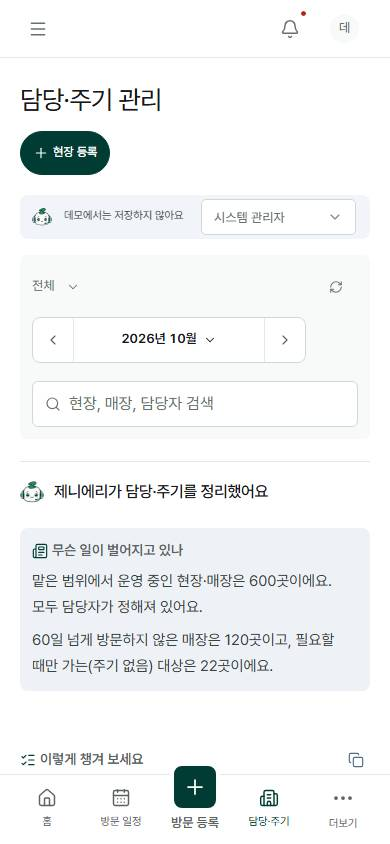
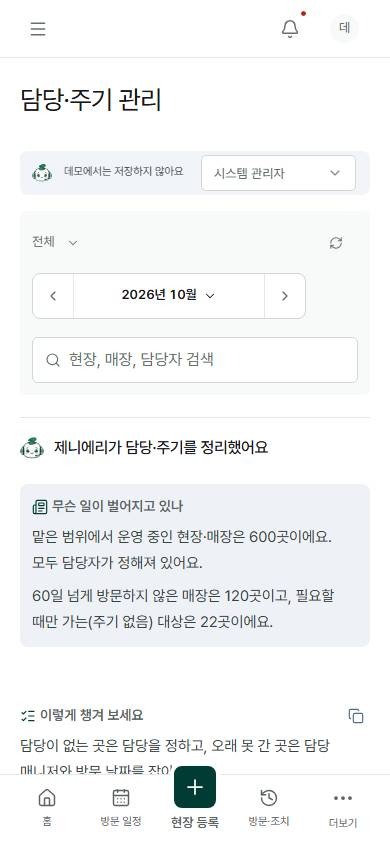
등록 버튼 PC·모바일 같은 동작(모바일 하단 + 버튼이 화면에 맞춰 일정·결과·조치 등록), 하단 메뉴 방문·조치, 매뉴얼 화면 캡처 파이프라인(npm run screenshots)·화면 다시 찍음

diff --git a/app/platform/app.tsx b/app/platform/app.tsx
@@ -137,7 +137,8 @@ export default function PlatformApp({initialData,liveMode=false,onSaveLive,onDem
  const c:Context={demo:!liveMode,saving,data,me,now,start,end,targets,scope,siteScope,storeScope,visits:scopedVisits,actions:scopedActions,metrics,allMetrics,type,page,kind,manager,siteId,storeId,team,part,editable,canMaster,go,setType:chooseType,setKind,setTeam:chooseTeam,setPart:choosePart,setManager:chooseManager,setSite:chooseSite,setStore:chooseStore,setPeriod,open,showTarget,uname,target,label,owners,exportCsv};
  const vview=view==='auto'?(me.role==='manager'?'calendar':'units'):view;const activePage=page==='requirements'?'visits':page==='actions'?'results':page;const title=page==='requirements'?'필요 방문 회차':page==='settings'?'설정':page==='actions'?'방문·조치':nav.find(n=>n[0]===page)?.[1]||'운영 현황';
  const openIssues=scopedActions.filter(a=>a.state!=='완료');const alertCount=openIssues.filter(a=>a.dueDate<now).length+allMetrics.delayed+allMetrics.slots.filter(s=>s.state==='unplanned'&&s.overdue).length;
- const primary=page==='sites'?{entity:'site',label:'현장 등록'}:page==='actions'?{entity:'action',label:'후속 조치 등록'}:{entity:'visit',label:page==='results'?'방문 결과 등록':'방문 일정 등록'};
+ // 화면마다 등록 하나: PC는 머리 버튼, 모바일은 하단 가운데 + 버튼(같은 동작, 짧은 이름)
+ const primary=page==='sites'?{entity:'site',label:'현장 등록',short:'현장 등록'}:page==='actions'?{entity:'action',label:'후속 조치 등록',short:'조치 등록'}:page==='results'?{entity:'visit',label:'방문 결과 등록',short:'결과 등록'}:{entity:'visit',label:'방문 일정 등록',short:'일정 등록'};
  const canNarrow=showLevel('division',divisionOptions)||showLevel('team',teamOptions)||showLevel('part',partOptions)||showLevel('manager',roleManagers)||filterSites.length>1||filterStores.length>1||page==='sites';
  const filterCount=[division,team,part,manager,siteId,storeId,region,status,search].filter(Boolean).length;
  return <div className={'app-shell platform-app '+(collapsed?'sidebar-collapsed':'')}>
@@ -160,7 +161,7 @@ export default function PlatformApp({initialData,liveMode=false,onSaveLive,onDem
  {page==='settings'&&<><AiBriefSettings c={c}/><PlatformDomains c={c} onSave={save}/><PlatformUsers c={c}/></>}
  <UpdateNotice/><footer className="workspace-footer"><span><b>ZeniField</b>현장·매장 통합 운영관리</span><span>현장·매장 실적 분리<i/>한국 표준시 기준<i/>{`v${__ZF_BUILD__.version}${__ZF_BUILD__.commit?" · "+__ZF_BUILD__.commit:""} · ${__ZF_BUILD__.dev?"개발 서버 시작":"빌드"} ${__ZF_BUILD__.at}`}</span></footer>
  </main></div>
- <nav className="mobile-bottom-nav" inert={mobile} aria-label="모바일 메뉴"><button className={page==='dashboard'?'active':''} onClick={()=>go('dashboard')}><Home size={20}/><span>홈</span></button><button className={activePage==='visits'?'active':''} onClick={()=>go('visits')}><CalendarDays size={20}/><span>방문 일정</span></button><button className="mobile-register" onClick={()=>editable?open('visit',undefined,{result:true,targetType:type}):setToast('조회 전용입니다. 역할별 화면에서 잡매니저를 선택해 시연하세요.')}><span><Plus size={24}/></span><b>방문 등록</b></button><button className={page==='sites'?'active':''} onClick={()=>go('sites')}><Building2 size={20}/><span>담당·주기</span></button><button aria-expanded={mobile} aria-controls="workspace-sidebar" onClick={()=>setMobile(true)}><MoreHorizontal size={24}/><span>더보기</span></button></nav>
+ <nav className="mobile-bottom-nav" inert={mobile} aria-label="모바일 메뉴"><button className={page==='dashboard'?'active':''} onClick={()=>go('dashboard')}><Home size={20}/><span>홈</span></button><button className={activePage==='visits'?'active':''} onClick={()=>go('visits')}><CalendarDays size={20}/><span>방문 일정</span></button><button className="mobile-register" aria-label={primary.label} onClick={()=>editable?open(primary.entity,undefined,{targetType:type,result:page==='results'}):setToast('조회 전용입니다. 역할별 화면에서 잡매니저를 선택해 시연하세요.')}><span><Plus size={24}/></span><b>{primary.short}</b></button><button className={activePage==='results'?'active':''} onClick={()=>go('actions','미처리')}><History size={20}/><span>방문·조치</span></button><button aria-expanded={mobile} aria-controls="workspace-sidebar" onClick={()=>setMobile(true)}><MoreHorizontal size={24}/><span>더보기</span></button></nav>
  {modal&&<Drawer mark={modal.entity==='visit'&&isAi(modal)?<AiMark size={18}/>:undefined} title={modal.entity==='saved'?'저장 완료':modal.entity==='site'?'현장 등록·수정':modal.entity==='store'?'매장 등록·수정':modal.entity==='action'?'후속 조치 등록 / 수정':modal.entity==='user'?'사용자·조직·권한':modal.entity==='visit'&&isAi(modal)?(isPlan(modal)?'제니에리가 일정 등록을 도와 드려요':'제니에리가 결과 입력을 도와 드려요'):modal.result?'방문 결과 등록':'방문 일정 등록'} sub='' busy={saving} onClose={()=>{if(!saving)setModal(null)}}>{modal.entity==='saved'?<SavedNudge c={c} before={modal.before} onClose={()=>setModal(null)}/>:modal.entity==='user'?<UserForm record={modal.record} c={c} error={error} onSave={save} onClose={()=>setModal(null)}/>:modal.entity==='visit'&&isAi(modal)?isPlan(modal)?<AiPlanForm key={`plan:${modal.siteId||''}:${modal.storeId||''}:${modal.requirementId||''}`} c={c} modal={modal} error={error} onSave={save} onClose={()=>setModal(null)}/>:<AiVisitForm key={`ai:${modal.entity}:${modal.record?.id||'new'}:${modal.siteId||''}:${modal.storeId||''}:${modal.result||false}`} c={c} modal={modal} error={error} onSave={save} onClose={()=>setModal(null)}/>:<PlatformForm key={`${modal.entity}:${modal.record?.id||'new'}:${modal.siteId||''}:${modal.storeId||''}:${modal.result||false}`} c={c} modal={modal} error={error} onSave={save} onClose={()=>setModal(null)}/>}</Drawer>}
  {detail&&<Drawer title="현장·매장 상세" sub="" onClose={()=>setDetail(null)}><TargetDetail key={detail.id+detail.tab} c={c} id={detail.id} initialTab={detail.tab}/></Drawer>}
  {notice&&<Drawer title="확인 필요 업무" sub="" onClose={()=>setNotice(false)}><div className="notification-content"><div className="notice"><b>기한 초과 이슈 {openIssues.filter(a=>a.dueDate<now).length}건</b><p>필요 회차 중 방문 지연 {allMetrics.delayed}회차 · 기한이 지난 계획 미등록 {allMetrics.slots.filter(s=>s.state==='unplanned'&&s.overdue).length}회차</p></div><button className="btn" onClick={()=>go('actions','기한 초과')}>기한 초과 조치 보기<ArrowRight size={14}/></button><button className="btn" onClick={()=>go('requirements','delayed')}>지연 회차 보기<ArrowRight size={14}/></button><button className="btn" onClick={()=>go('requirements','unplanned')}>계획 미등록 보기<ArrowRight size={14}/></button><p className="privacy-note">앱 내 조회 기능이며 푸시·메일 알림은 발송하지 않습니다.</p></div></Drawer>}

diff --git a/app/platform/styles.css b/app/platform/styles.css
@@ -967,3 +967,5 @@
 .app-shell .copy-btn.with-text{display:inline-flex;align-items:center;gap:4px}
 .app-shell .record-table .row-actions{flex-wrap:nowrap;gap:8px}
 .record-table th:nth-child(2){width:26%}.record-table th:nth-child(6){width:16%}
+/* 모바일: 등록은 하단 가운데 + 버튼 하나(머리 버튼과 같은 동작) → 머리 등록 버튼 숨김 */
+@media(max-width:760px){.app-shell .page-actions>.btn.primary{display:none}}

diff --git a/PROJECT_RULE.md b/PROJECT_RULE.md
@@ -40,6 +40,7 @@
 |-------|-------------------|
 | DC-DESIGN | UI·디자인 변경 → `docs/DESIGN-zenielfield.md` 해당 절 확인 → 지침에 없거나 다르면 지침 먼저 갱신 → **같은 변경에서 `AGENTS.md` "현재 디자인 결정"과 아래 DC-DESIGN-* 행도 갱신(빠지면 미완료)** → 구현 → 390/820/1280px 실화면 검증 → `docs/` 기록. 대체·폐기된 기준은 `docs/design-history.md`로 옮기고 지침·룰에 남기지 않음 |
 | DC-DESIGN-SHELL | 메뉴 = 모든 직급 같은 이름·같은 화면 구성(범위만 직급별): 운영 현황·방문 일정·방문 기록·후속 조치·활동 요약·담당·주기 관리·현장 주소록, 설정 = 사이드바 하단 아이콘, 페이지 키 불변. 로고 `BrandIdentity` 188/180/158px. 현재 메뉴 딥그린 채움·점 금지. 데모 = 상단 띠 하나, 운영과 같은 구성. 반응형 ≤760/761–1023/≥1024/≥1440만. 조회 필터 = 범위 버튼 + 기간 하나, 761px 이상 모든 화면 한 줄 |
+| DC-DESIGN-REGISTER | 화면마다 등록 하나(`primary` entity·label·short): PC 머리 버튼, 모바일 하단 가운데 + 버튼 같은 동작·짧은 이름, 모바일 머리 등록 숨김. 하단 메뉴 홈·방문 일정·등록·방문·조치·더보기. 화면 변경 커밋은 `npm run screenshots`로 `docs/screenshots` 갱신. 갱신 2026-10-30 |
 | DC-DESIGN-VISUAL | 딥그린 `#003c33` 단일 강조, 상태색 완료/예정 `#516e8a`/지연 `#b42318`/미등록 `#8a4b00`, 빨강 = 기한 넘긴 사실만, 옅은 표면 2개만. Pretendard 하나, 글자 ≥11px·축 12px, keep-all. Lucide 14/16/20/24·선 1.75, 터치 44px. 이동용 ChevronRight는 단독 버튼이 아니라 링크 제목 바로 옆 14px 아이콘(한 초점/클릭 영역). 패널 흰색·상단 1px 선. 부제 설명·지표 꼬리·인쇄 버튼·표 제목 건수 금지. 문단은 칸(주제)마다 하나·문장별 줄 나누기 금지, 본문 15px·행간 1.7·`--zf-read-measure`(68ch) |
 | DC-DESIGN-ZENIERI | AI 표시 = `AiMark`(`zenieri-chatbot.png`, 24/20/44px) 하나. 문장 = 제니에리 해요체 완결 문장·직함 호칭, 메모체·콜론 나열 금지(AI `briefPrompt`·규칙 `ruleBrief` 모두). 권한 안내는 거부 때만. 지침 9-B |
 | DC-DESIGN-BRIEF | 브리핑 = 제목 `제니에리가 정리해서 말씀드려요`·누구 이야기 → 무슨 일(한 문단) → 어디에 무엇이(요약+자세히 보기) → 이렇게 챙겨 보세요(보는 사람 관리 가이드·넘기는 지시 금지·복사) → 더 보기(이행 가이드+복사·전할 말·다음 주·근거·AI 고지). 칸 제목 14px·600+16px 아이콘, 상태 칩 하나+작성 중 가림막. 저장본 키 사용자·직급별·로그아웃 삭제. 지침 9-B |

diff --git a/docs/local-development.md b/docs/local-development.md
@@ -110,3 +110,10 @@ UI 변경 시 [AGENTS.md](../AGENTS.md)의 390px·820px·1280px 실화면 검수
 | 빈 목록·저장 충돌 | 기간·대상·상태 필터와 역할 범위 확인. 최신 자료를 불러와 입력 내용 재검토 |
 
 근거: [실행 설정](../package.json), [setup](../scripts/setup.mjs), [진입 화면](../app/platform/entry.tsx), [사용자 매뉴얼](user-guide.md). 실제 서비스 설정과 재현이 남은 항목은 [점검 보고서](documentation-audit-2026-10-29.md)에 구분한다.
+
+## 매뉴얼 화면 캡처
+
+- `npm run screenshots -- --url <개발 서버 주소>` → 데모 모드로 메뉴마다 PC 1280·모바일 390 화면을 `docs/screenshots/*.jpg`에 저장
+- 주소 기본값 `ZF_SHOT_URL` → `http://127.0.0.1:5173`. 서버(`npm start` 또는 `npm run preview:dist`)가 먼저 떠 있어야 함
+- 일부만: `--only dashboard,visit-action`. 새 버전 알림 띠는 숨기고 브리핑 작성이 끝난 뒤 찍음, 실패 시 종료 코드 1
+- 화면을 바꾼 커밋에서 다시 찍어 README `화면으로 보기`와 맞춤(`scripts/screenshots.mjs`에 메뉴 목록)

diff --git a/README.md b/README.md
@@ -44,7 +44,7 @@
 
 ## 화면으로 보기
 
-데모 데이터, PC 1280px와 모바일 390px 화면이에요.
+데모 데이터, PC 1280px와 모바일 390px 화면이에요. `npm run screenshots`로 다시 찍어요([캡처 방법](docs/local-development.md#매뉴얼-화면-캡처)).
 
 ### 운영 현황
 제니에리 말풍선(오늘·이번 주·챙길 것) → 브리핑(무슨 일 → 어디에 무엇이 → 이렇게 챙겨 보세요) → 지표·차트.
@@ -104,6 +104,7 @@ pnpm dev        # http://127.0.0.1:5173  (데모: /?mode=demo)
 
 - 백그라운드 서버: `npm start` · `npm stop` · `npm restart` · `npm run status`
 - 검사: `pnpm typecheck` · `pnpm test`
+- 매뉴얼 화면 캡처: `npm run screenshots -- --url <서버 주소>`
 - 자세한 설치·설정: [로컬 개발 가이드](docs/local-development.md)
 - **주의:** main 푸시는 운영 자동 배포를 실행해요([supabase-deploy](.github/workflows/supabase-deploy.yml)).
 
